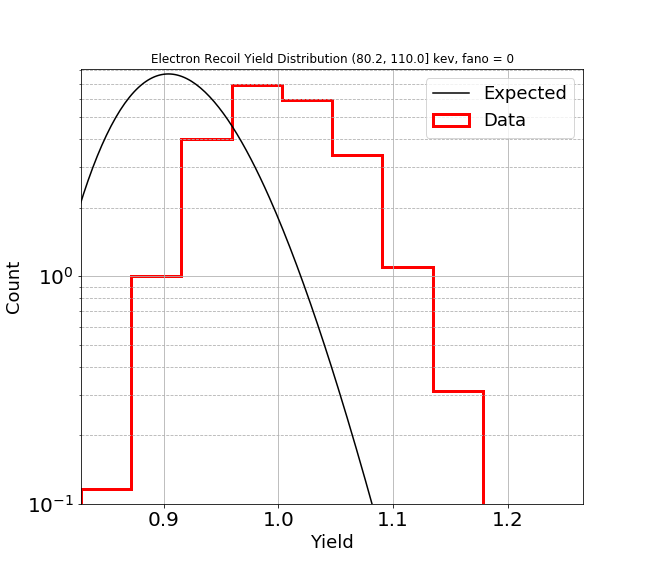
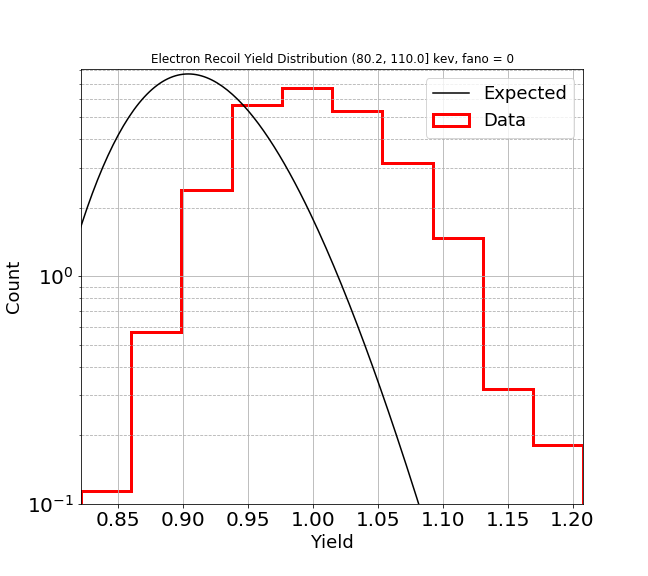
fixed merge issue

diff --git a/Mitch/bin_data_check.py b/Mitch/bin_data_check.py
@@ -83,8 +83,9 @@ def bin_check(df,s,band_func,bins,cut_idx,expected,Er_true,fano):
            # u = np.linspace(0.1,0.5,1000) #for nuclear recoils. 
 
             #prob = dist_check(u,Ep_mean,Eq_mean,Sp_mean,Sq_mean,k) #amy's defined PDF 
-            prob = dist_check_fano(u,E,N_mean,Sp_mean,Sq_mean,SN)
+            prob = dist_check_fano(u,E_true,N_mean,Sp_mean,Sq_mean,SN)
             hist_plot(Yield,prob,u,bin_name,fano)  
+
 
             plt.subplots(1,1,figsize=(9.0,8.0),sharex=True)
             stats.probplot(Yield, dist="norm", plot=pylab)
@@ -94,6 +95,7 @@ def bin_check(df,s,band_func,bins,cut_idx,expected,Er_true,fano):
             pylab.show()
 
             print('skew is: ',stats.skew(Yield))
+            print('kurtosis is: ', stats.kurtosis(Yield,fisher=False))
             
         
             up,down,N = compare(Yield,upper_bound,lower_bound) # up and down are the number of data points OUTSIDE the bands. 

diff --git a/Mitch/data_check_1.py b/Mitch/data_check_1.py
@@ -18,7 +18,7 @@ from Data_check_continuous import *
 
 
 #%%
-N = 100000
+N = 10000
 s = 1
 fano = 0 # 'known' fano factor for electron recoils. 
 
@@ -27,7 +27,7 @@ bins = np.array([10,13.4,18.1,24.5,33.1,44.8,60.6,80.2,110])
 bins_cont = np.linspace(10,150,N)
 Eer = np.random.choice(bins,N)
 
-df = Yield_Er(Eer,fano) #Electron Recoil Band with fano
+df = Yield_Er(Eer,fano) #Electron Recoil Band with fano (BINNED)
 
 df_count = Yield_Er(bins_cont,fano) #with fano 
 

diff --git a/python/prob_dist.py b/python/prob_dist.py
@@ -44,6 +44,10 @@ def ratio_dist_fano(x, Er, meanN, sdP, sdQ, sdN, V,e):
     D = (B**2/(4*A)) - C
 
     #ans = (1/(2*np.sqrt(np.pi*k)))*(1/A(x))*g((B(x))/(2*np.sqrt(A(x))))*np.exp(-C)
-    ans = (1/(2*np.sqrt(np.pi*k)))*(1/A*(np.exp(-C)/(np.sqrt(np.pi)) + B/(2*np.sqrt(A)*np.exp(D*erf(B/(2*np.sqrt(A)))
-    
+
+    ans = (1/(2*np.sqrt(np.pi*k)))*(1/A)*((np.exp(-C)/(np.sqrt(np.pi))) + B/(2*np.sqrt(A))*np.exp(D)*erf(B/(2*np.sqrt(A))))
+
     return ans
+
+
+
